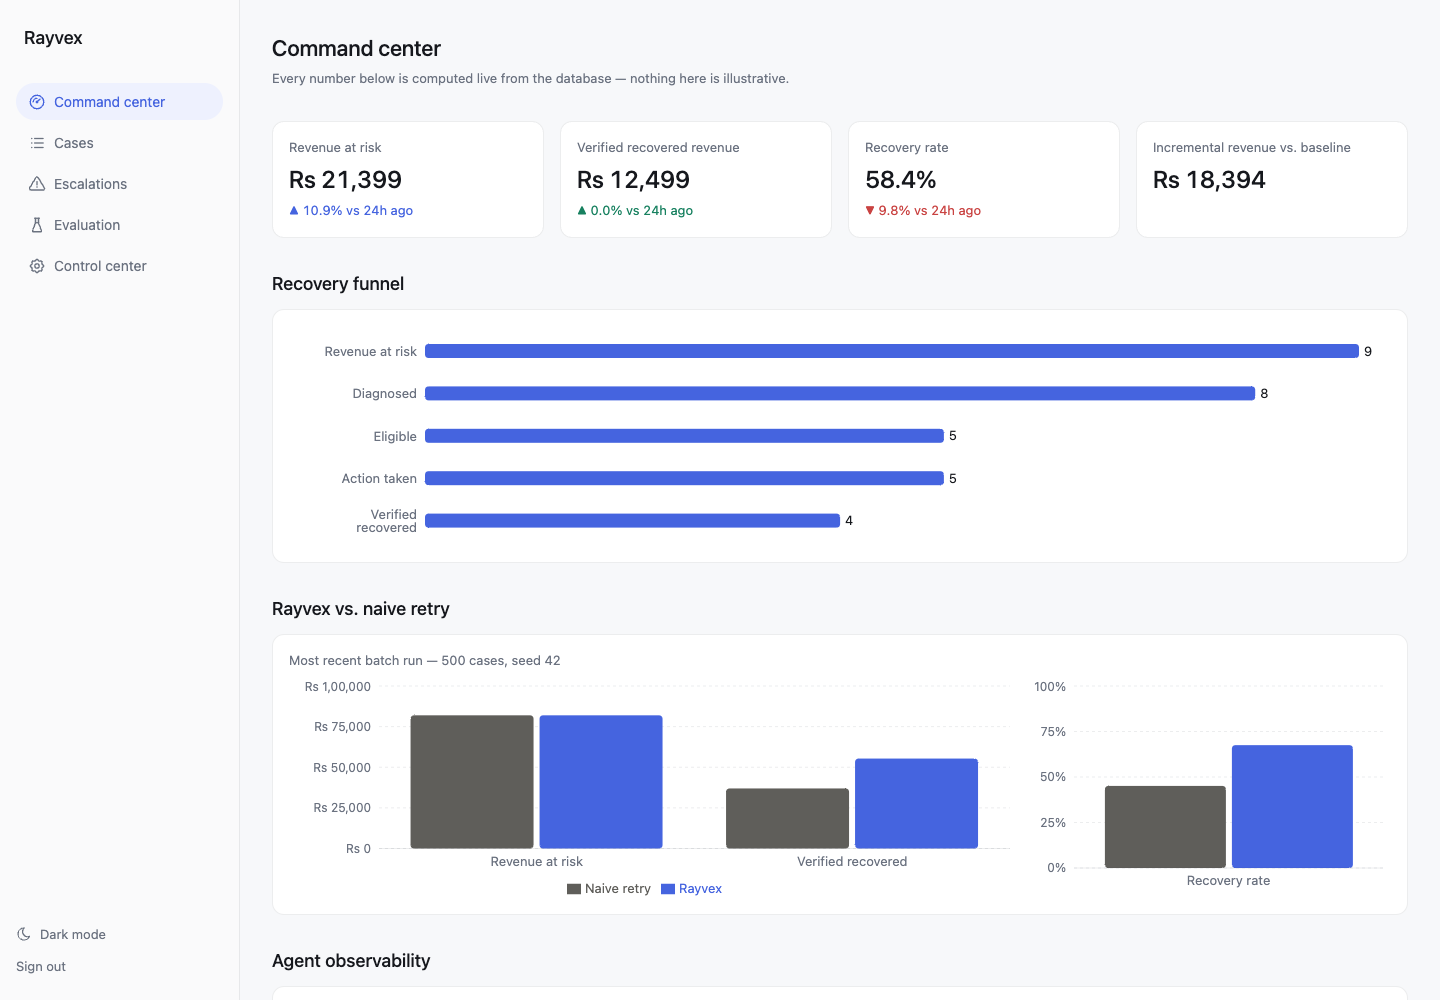
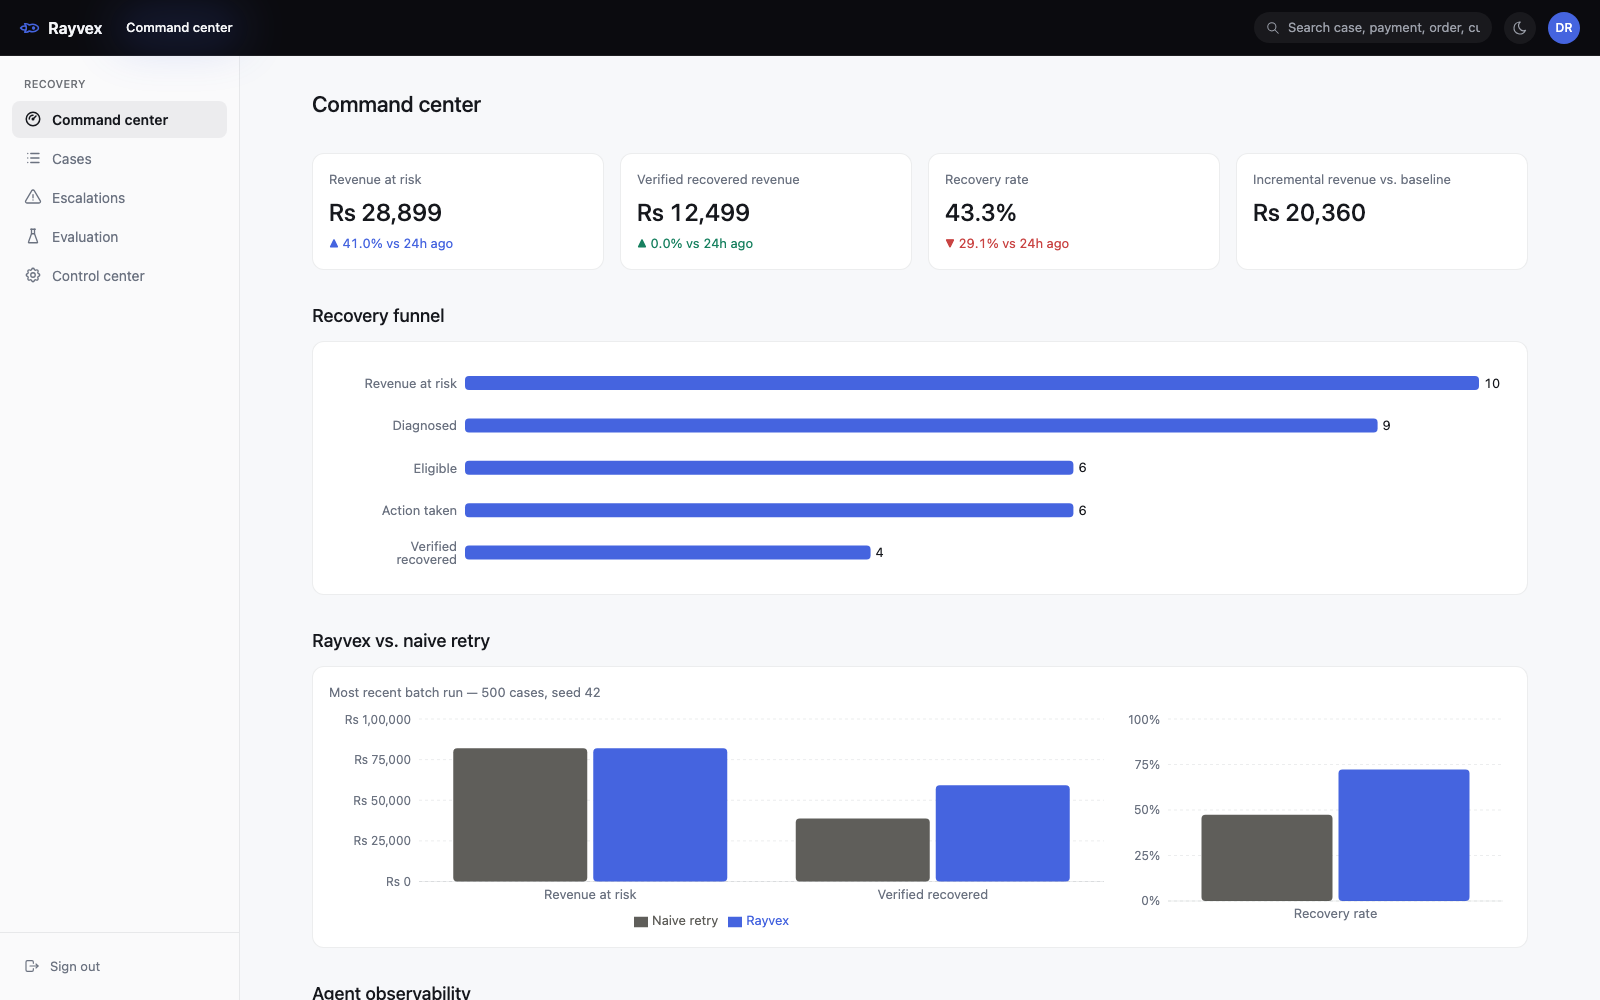
Add a Demo section with real screenshots and a walkthrough video link
Screenshots are from a live run against seeded demo data, not mockups.
Also removes SUBMISSION.md, which was already gone from the working
tree.

diff --git a/README.md b/README.md
@@ -25,6 +25,64 @@ that would out-perform the segment-bucket estimator already in place,
 and there's no real channel credential configured anywhere in this
 environment to build a non-fake integration against.
 
+## Demo
+
+**[5-minute walkthrough video](https://drive.google.com/file/d/1ceEutOOI_V4uTreEdMaVPHYQlR0igHHl/view?usp=drive_link)**
+
+Screenshots below are from a live run against the seeded demo data
+(`scripts/seed_demo.py --benchmark-n 500`), not mockups — the numbers,
+case IDs, and statuses are whatever that seed run actually produced.
+
+### Command Center
+
+![Command Center](docs/screenshots/command-center.png)
+
+The landing page. Every number is queried live from Postgres on page
+load — revenue at risk, verified recovered revenue, today's recovery
+rate. The recovery funnel underneath shows how many of the current
+cases made it through each pipeline stage (diagnosed → eligible →
+action taken → verified recovered), and the comparison chart is the
+most recent Rayvex-vs-naive-retry benchmark run, not a static graphic.
+
+### Cases
+
+![Cases list](docs/screenshots/cases.png)
+
+Every seeded case, real filters (status, failure type, amount range,
+created-date range), and a real database search — no client-side
+filtering over a fixed list. Status badges are honest about outcome:
+`recovered`, `stopped`, `verification pending`, `escalated`, each
+reflecting the case's actual `current_state` in the database.
+
+### Escalations
+
+![Escalation queue](docs/screenshots/escalations.png)
+
+Cases land here only when the system genuinely can't resolve them on
+its own — in this run, a payment whose captured amount didn't match
+what was expected, which verification refuses to auto-confirm and
+escalates for a human instead of silently marking it recovered.
+
+![Escalation review panel](docs/screenshots/escalation-review.png)
+
+Clicking a queued case opens its full context — the agent's original
+proposal, confidence and risk level, failure code, amount — next to
+the reviewer's decision panel. A reason is required and audited for
+every Approve, Override, or Reject; a viewer-role account never sees
+these three buttons at all (nor can it call the endpoint directly —
+the API itself enforces this with a 403).
+
+### Control Center
+
+![Control Center](docs/screenshots/control-center.png)
+
+Every threshold the policy engine actually enforces — retry limits,
+amount thresholds, rate limits, communication hours, risk score — is
+editable here by a reviewer, with a live "Preview effect" simulation
+before saving so a policy change is never a blind guess. Saving is
+reviewer-only; a viewer sees exactly why the control is disabled
+instead of a button that silently does nothing.
+
 ## Quickest path to seeing it work
 
 ```bash
@@ -36,14 +94,18 @@ docker compose up -d postgres redis rabbitmq
 python scripts/seed_demo.py --benchmark-n 500
 ```
 
-That resets the database to a clean, migration-defined state and runs 10
+That resets the database to a clean, migration-defined state and runs 11
 demo scenarios (UPI timeout retry, insufficient-funds alternative payment,
 checkout abandonment recovery, a repeated-failure policy stop, a
-suspicious-velocity escalation, duplicate-webhook idempotency, a
-failed→captured reconciliation, a prompt-injection attempt safely
-ignored, a verification that correctly stays pending, and a batch
-Rayvex-vs-Naive-Retry benchmark run) — plus the benchmark itself,
-printing each case's real outcome as it happens. `seed_demo.py` drives
+suspicious-velocity policy stop flagged for escalation, duplicate-webhook
+idempotency, a failed→captured reconciliation, a prompt-injection attempt
+safely ignored, a verification that correctly stays pending, a captured
+amount that doesn't match the expected payment and escalates for human
+review, and a batch Rayvex-vs-Naive-Retry benchmark run) — plus the
+benchmark itself, printing each case's real outcome as it happens. The
+amount-mismatch scenario is what populates the Escalations queue in the
+dashboard; every other STOPPED/pending scenario is visible on the Cases
+list but doesn't queue for human review. `seed_demo.py` drives
 cases through the pipeline directly, the same call the worker below
 makes per queue message — it doesn't need the worker running.
 
@@ -184,3 +246,24 @@ after an independently confirmed payment status from the provider.
 - Tests run against real Postgres/Redis/RabbitMQ, never SQLite or mocks —
   the schema uses native enums, JSONB, and row locking that only a real
   Postgres exercises faithfully.
+
+## Running in production
+
+Three deployable units, each with a pinned-dependency image:
+
+```bash
+docker build -f Dockerfile.api -t rayvex-api .        # FastAPI, migrates + serves on :8000
+docker build -f Dockerfile.worker -t rayvex-worker .   # RabbitMQ consumer
+docker build -f apps/web/Dockerfile -t rayvex-web .    # Next.js, serves on :3000
+```
+
+Required environment for the API/worker images: `DATABASE_URL`,
+`REDIS_URL`, `RABBITMQ_URL`, `RAZORPAY_WEBHOOK_SECRET`, `CORS_ORIGINS`
+(comma-separated real frontend origin(s)), and Razorpay/LLM credentials
+if not running in simulation mode. Set `DASHBOARD_CREDENTIALS` once to
+create the first reviewer account, then unset it — accounts persist in
+the `users` table after that. For the web image, set
+`NEXT_PUBLIC_API_BASE_URL` to the API's real origin at build time.
+
+The API image runs `alembic upgrade head` before serving, so schema
+migrations apply automatically on deploy.
